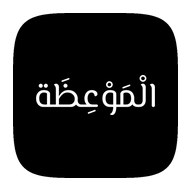
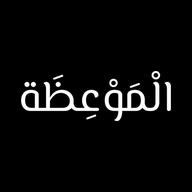
Drop the white frame: the mark is the whole square
The wordmark now runs edge to edge on every surface — white name on black,
nothing around it. The icons and the splash mark are the same picture at
different sizes, and logo-mark.webp comes out byte-identical to what it already
was, which is the check that they really do agree.

With no frame there are no frame corners to reason about surviving a crop, and
the file gets simpler for it: no concentric squircle tile, no two insets, no
white ground. What still has to be right is the safe area, because every
platform crops the square to its own shape and the name must not be clipped.

The name is about three times as wide as it is tall, so its own corners are
what a crop reaches first. For a centred box of that aspect and width w, the
corners sit at 0.527w from the middle; keeping them inside Android's 0.4 safe
radius means w cannot exceed 0.76 of the square. So the maskable icon sets the
name at 0.70 and everything else at 0.78 — iOS's squircle clears the wider one
easily, evaluating to 0.29 of the superellipse where 1.0 is the edge.

Verified under all three crops: squircle, circle and rounded square. Nothing
clips.

diff --git a/scripts/make-app-icons.py b/scripts/make-app-icons.py
@@ -17,31 +17,29 @@ it, never an enlargement, so nothing is ever softened to fill a canvas. The
 glyphs are recoloured through their own alpha, so the edges stay as clean as
 the type.
 
-Why the white border is not drawn as a border
----------------------------------------------
-Every platform crops an app icon to its own shape, and the artwork never gets
-to keep its corners:
+No border, and what that leaves to get right
+--------------------------------------------
+The mark is the whole square: white name on black, edge to edge. No frame is
+drawn, so nothing has to be reasoned about a frame's corners surviving a crop.
+
+What still has to be right is the safe area, because every platform crops the
+square to its own shape and the name must not be clipped:
 
   iOS      a continuous-corner squircle -- not a rounded rectangle. The same
            proportional shape at every size, so Home Screen, App Library,
-           Spotlight and Settings all crop identically. A PWA added to the
-           Home Screen is masked exactly like a native app.
+           Spotlight and Settings all crop identically.
   Android  a "maskable" icon may be cropped to a circle, a squircle, a rounded
            square or a teardrop, chosen by the launcher. Only the centre is
            guaranteed: the inner 80% of the width, as a circle.
 
-So a drawn frame has corners, the mask cuts them off, and what is left is
-thick along the flat edges and gone at the diagonals -- an uneven border.
+The name is about three times as wide as it is tall, so its own corners are
+what a crop reaches first. For a centred box of width w and that aspect, the
+corners sit at 0.527w from the middle; keeping them inside Android's 0.4 radius
+means w must not exceed 0.76 of the square. Hence a narrower setting for the
+maskable icon than for the rest -- the one number this file exists to get
+right. iOS's squircle is far more generous and clears the wider setting with
+room to spare.
 
-Instead the white is full-bleed, edge to edge and into the corners, and the
-black tile is inset within it. The platform's mask cuts the *white*, and what
-remains reads as a frame whose outer edge is the platform's own shape.
-
-For that frame to look even, the tile has to be the same shape as the mask and
-concentric with it: the gap between two concentric squircles is constant, the
-gap between a squircle and an inscribed rounded rectangle is not. Hence a real
-superellipse below, and hence two insets -- one sized against iOS's squircle,
-one against Android's stricter circle.
 """
 
 import sys
@@ -73,25 +71,16 @@ SQUIRCLE_N = 5
 #: which for every output here is a reduction of the source.
 MASK_SS = 4
 
-#: How much of the width the black tile takes.
+#: The name's width, as a share of the square.
 #:
-#: iOS crops to a squircle, so a concentric squircle at 86% leaves an even 7%
-#: of white all round -- present at the flat edges and still present at the
-#: diagonals, which is what "equally surrounding" means once the mask is on.
-IOS_TILE = 0.86
-#: Android guarantees only the inner 80% *circle*. A squircle's corner sits at
-#: about 1.23x its half-width from the centre, so a tile of side s has corners
-#: at 0.615s; keeping that inside the 0.4 radius means s <= 0.65.
-MASKABLE_TILE = 0.64
-#: The name's width as a share of the tile it sits in. Chosen so that on the
-#: iOS icon the glyphs come out at 62% of the whole canvas -- the proportion of
-#: the style reference, measured off it rather than guessed.
-GLYPH_IN_TILE = 0.72
-#: On the bare mark there is no white frame to leave room for, and it is drawn
-#: at forty-eight pixels inside a bordered box that already separates it from
-#: the page -- so the name takes more of the square than it does on the icon.
-#: At 0.62 it read noticeably smaller than the mark it replaced.
-GLYPH_ON_MARK = 0.78
+#: The default, used for the mark itself and for the icons iOS takes. iOS's
+#: squircle clips almost nothing at this width -- the name's corner evaluates
+#: to 0.29 of the superellipse, well inside it.
+GLYPH_WIDE = 0.78
+#: For the maskable icon, which may be cropped to a circle. The name's corners
+#: sit at 0.527w from the centre, so 0.76 is the most that fits inside the 0.4
+#: safe radius; this leaves a little margin on top of that.
+GLYPH_SAFE = 0.7
 
 
 def load_glyphs(path: Path) -> Image.Image:
@@ -173,25 +162,11 @@ def place(canvas: Image.Image, glyphs: Image.Image, target_w: int) -> None:
     )
 
 
-def build_mark(size: int, glyphs: Image.Image) -> Image.Image:
-    """A plain black square carrying the name — the badge, and the splash."""
+def build(size: int, glyph_share: float, glyphs: Image.Image) -> Image.Image:
+    """The mark: the name on black, filling the square. No frame, no tile."""
     m = Image.new("RGB", (size, size), TILE)
-    place(m, glyphs, int(round(size * GLYPH_ON_MARK)))
+    place(m, glyphs, int(round(size * glyph_share)))
     return m
-
-
-def build_icon(size: int, tile_share: float, glyphs: Image.Image) -> Image.Image:
-    """White full-bleed, with a concentric squircle tile carrying the name."""
-    canvas = Image.new("RGB", (size, size), WHITE)
-    side = int(round(size * tile_share))
-    # An odd remainder would put the tile half a pixel off centre, and an
-    # uneven border is the one thing this exists to avoid.
-    off = (size - side) // 2
-
-    tile = Image.new("RGB", (side, side), TILE)
-    place(tile, glyphs, int(round(side * GLYPH_IN_TILE)))
-    canvas.paste(tile, (off, off), squircle_mask(side))
-    return canvas
 
 
 def preview(icons, path: Path) -> None:
@@ -244,10 +219,10 @@ glyphs = load_glyphs(src_path)
 print(f"source {Image.open(src_path).size} -> name {glyphs.size}")
 
 outputs = [
-    ("icon-512.png", build_icon(512, IOS_TILE, glyphs), "PNG"),
-    ("icon-192.png", build_icon(192, IOS_TILE, glyphs), "PNG"),
-    ("icon-maskable-512.png", build_icon(512, MASKABLE_TILE, glyphs), "PNG"),
-    ("logo-mark.webp", build_mark(512, glyphs), "WEBP"),
+    ("icon-512.png", build(512, GLYPH_WIDE, glyphs), "PNG"),
+    ("icon-192.png", build(192, GLYPH_WIDE, glyphs), "PNG"),
+    ("icon-maskable-512.png", build(512, GLYPH_SAFE, glyphs), "PNG"),
+    ("logo-mark.webp", build(512, GLYPH_WIDE, glyphs), "WEBP"),
 ]
 for name, im, fmt in outputs:
     if fmt == "WEBP":
@@ -258,6 +233,7 @@ for name, im, fmt in outputs:
     print(f"  {name:<26} {im.size[0]}x{im.size[1]}  {kb:5.0f} KB")
 
 preview(
-    [("any (iOS, 86%)", outputs[0][1]), ("maskable (Android, 64%)", outputs[2][1])],
+    [(f"any (name at {GLYPH_WIDE:.0%})", outputs[0][1]),
+     (f"maskable (name at {GLYPH_SAFE:.0%})", outputs[2][1])],
     Path(sys.argv[2]) if len(sys.argv) > 2 else repo / "icon-preview.png",
 )
